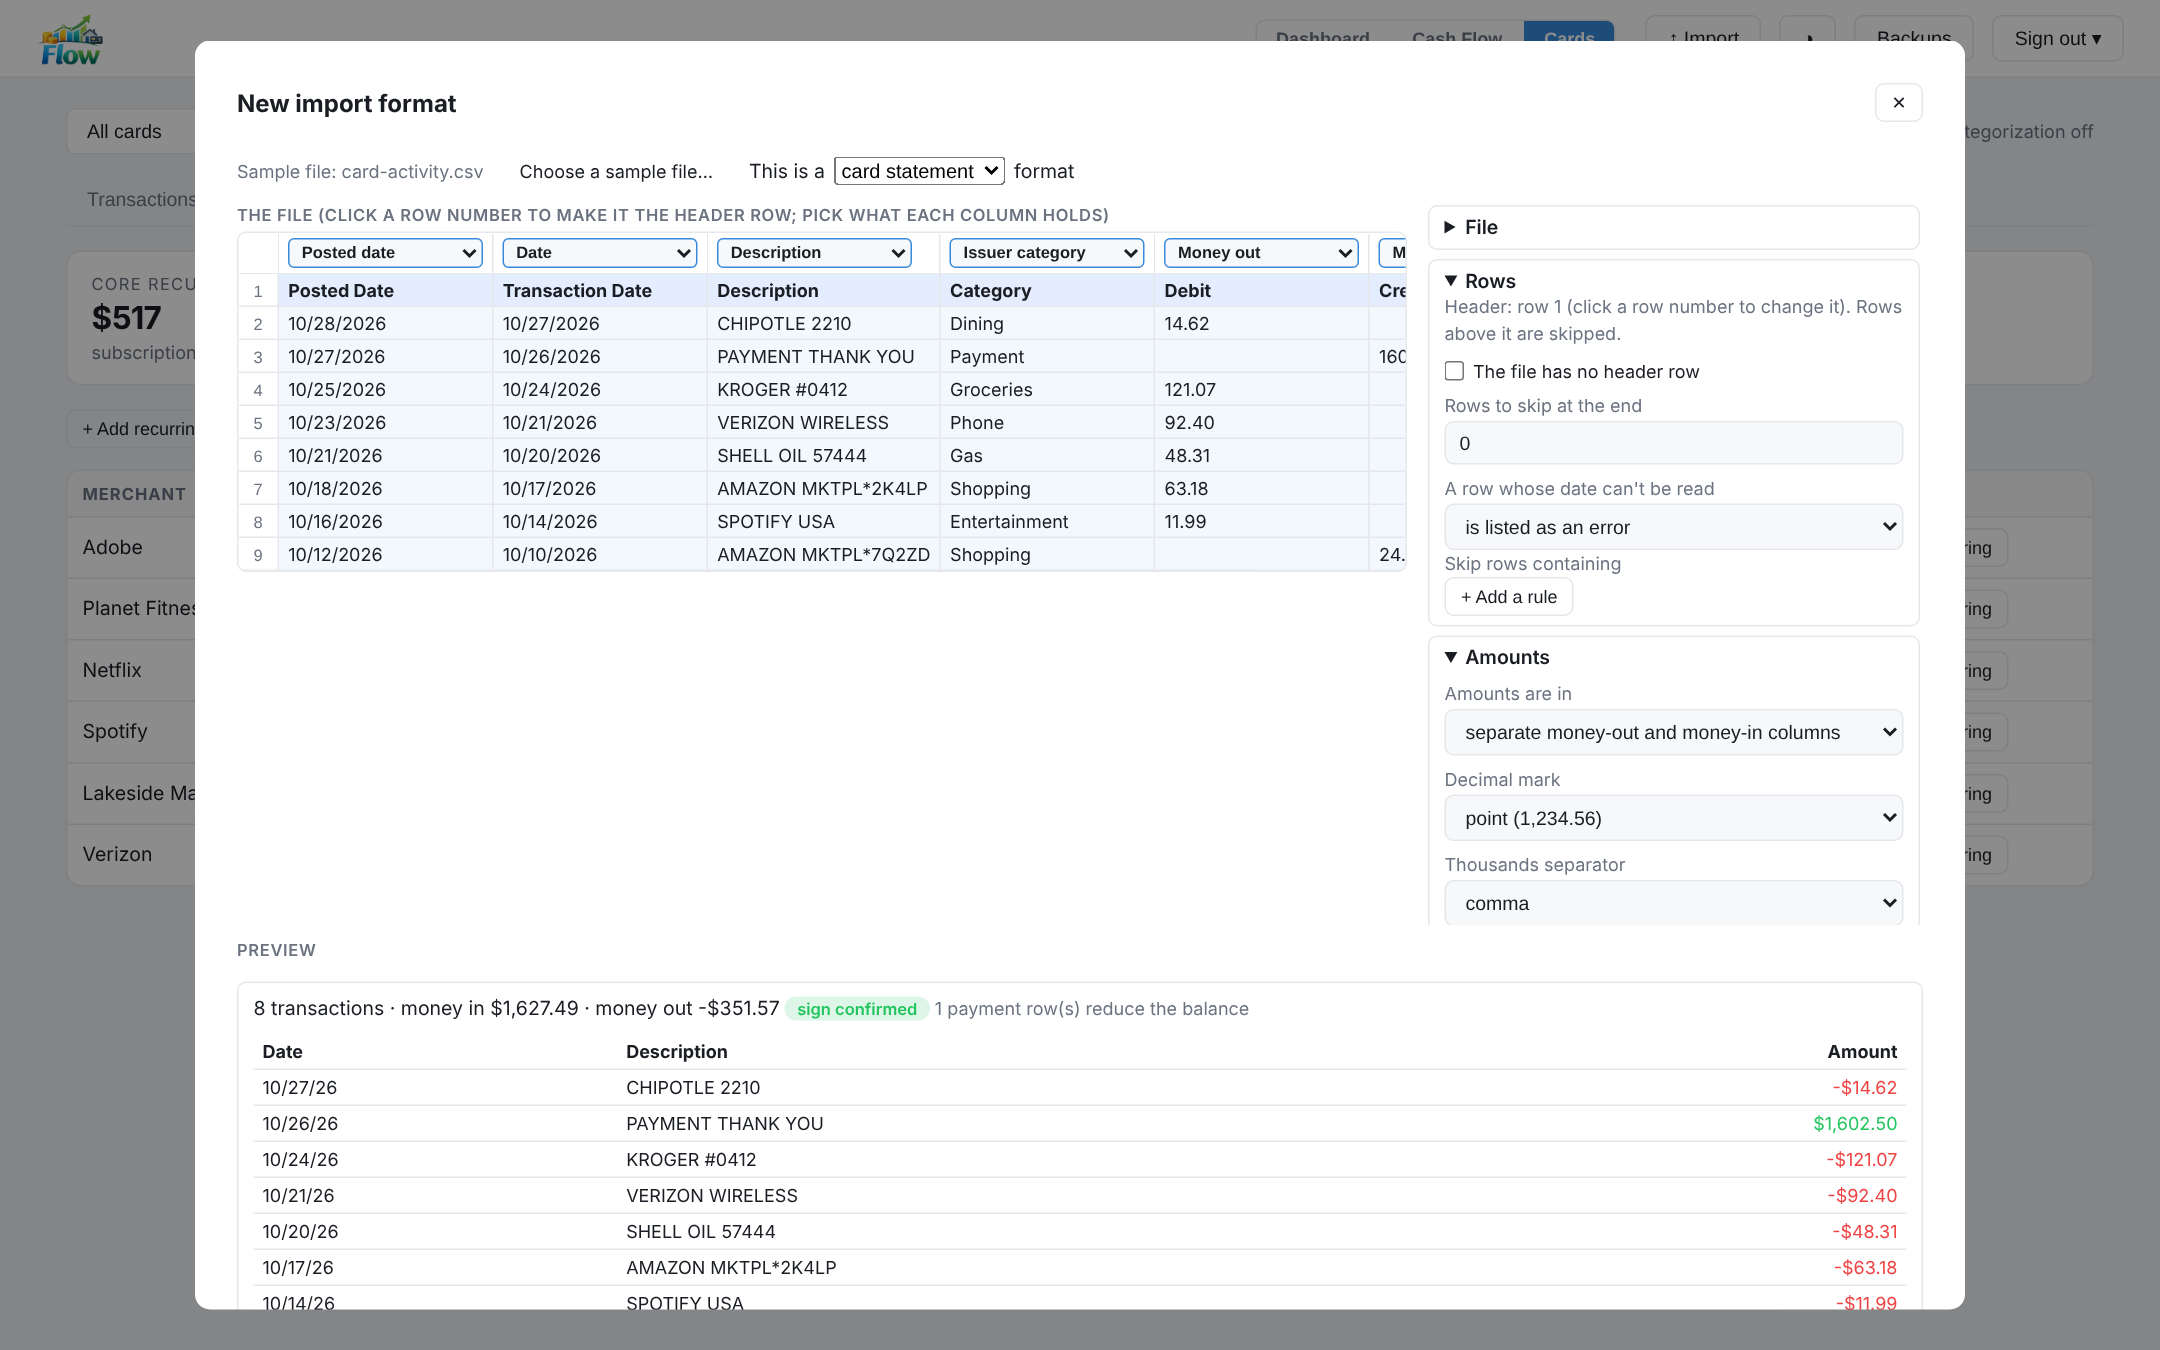
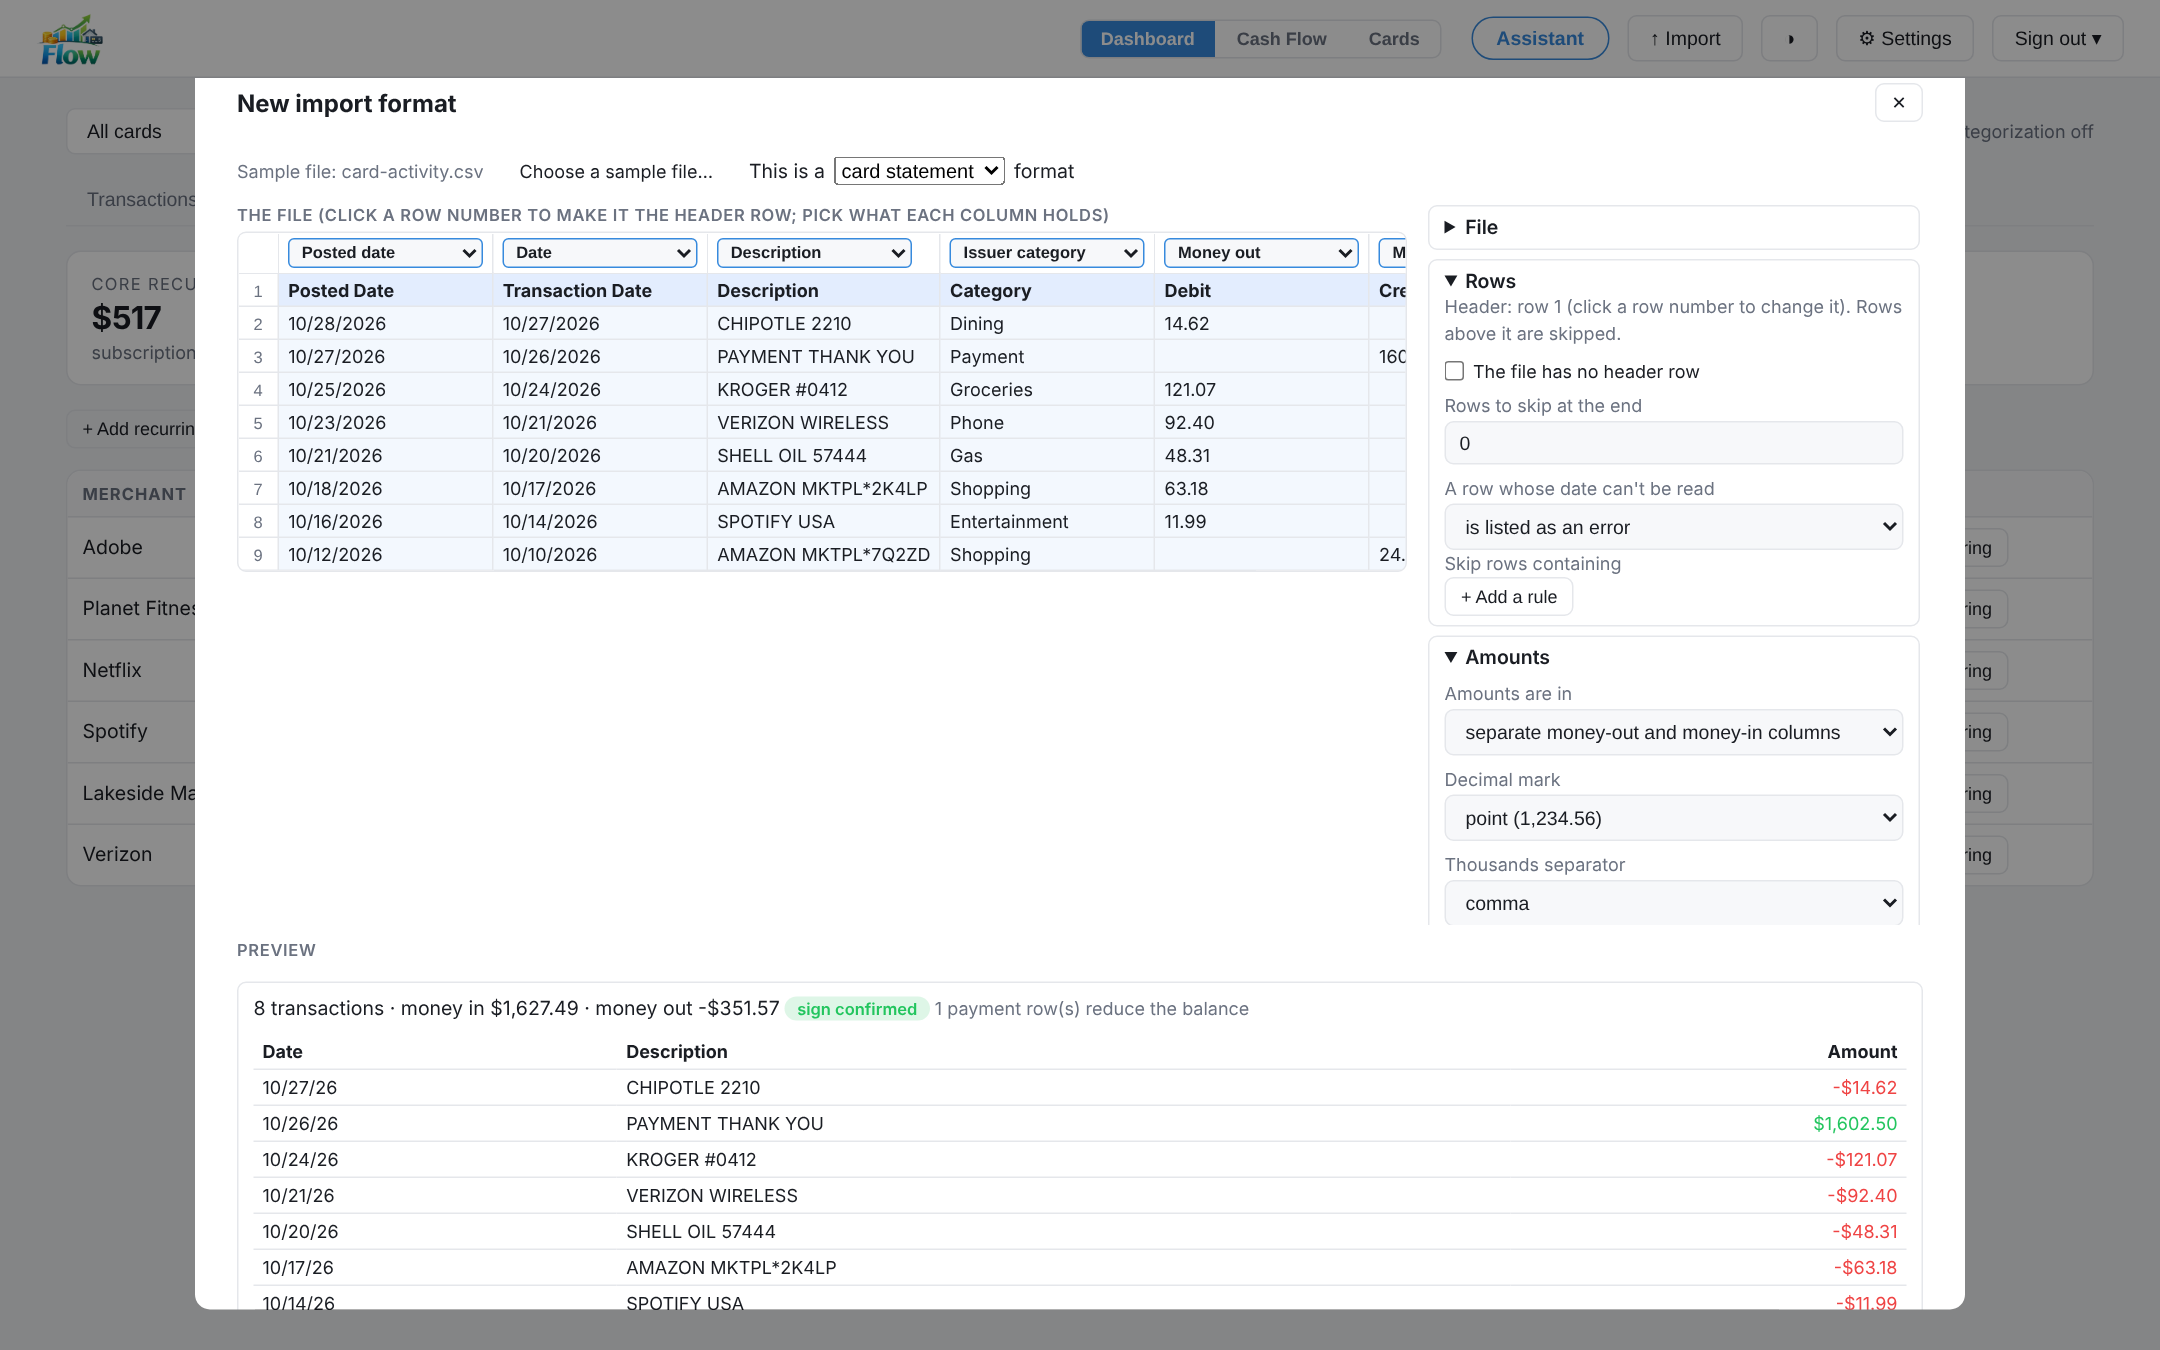
Update the README screenshots for the Settings dialog and the Needs attention panel
The Dashboard screenshot shows the Needs attention panel and the new top bar; a new
Settings → Backups screenshot shows the daily backup's schedule, the backup list and the
encrypted download. The other screenshots get the new top bar. The Settings dialog is a
little wider so the backup list's actions fit without scrolling.

Claude-Session: https://claude.ai/code/session_01LxiBHtrxDYcqhpWDVEYTao

Changed region(s): [[0.0931, 0.0, 0.9306, 0.0622]]

diff --git a/frontend/static/settings.css b/frontend/static/settings.css
@@ -1,6 +1,7 @@
 /* The Settings dialog (static/settings.js): a section list on the left, one section's content on the right.
    Tables and log styles come from cards.css; the AI section's own styles from ai.css. */
-#settings-modal .modal-box { width: 980px; max-width: 95vw; max-height: 90vh; overflow-y: auto; padding: 0; gap: 0; }
+#settings-modal .modal-box { width: 1120px; max-width: 95vw; max-height: 90vh; overflow-y: auto; padding: 0; gap: 0; }
+#backup-list-wrap { overflow-x: auto; }
 .settings-head { display: flex; align-items: center; gap: 8px; padding: 16px 24px; border-bottom: 1px solid var(--border); }
 .settings-layout { display: flex; min-height: 320px; }
 .settings-nav { display: flex; flex-direction: column; gap: 2px; padding: 12px; border-right: 1px solid var(--border); min-width: 180px; }

diff --git a/README.md b/README.md
@@ -4,7 +4,7 @@ A self-hosted personal finance dashboard. Track net worth over time, manage inve
 
 Flow is built for one person or one household running it on their own machine or home server, on a private network: one shared password, no user accounts, and your data in a PostgreSQL database you control. It is not designed to be exposed to the internet (see [Security](#security)). It reads any bank's or card issuer's CSV, TSV or XLSX export through import formats you set up once per layout, so no particular bank is assumed. Amounts are shown in US dollars, and the optional AI features use the Anthropic API with your own key.
 
-![Dashboard: net worth over time, asset allocation and debt-to-asset ratio](docs/screenshots/dashboard.png)
+![Dashboard: what needs attention, net worth over time, asset allocation and debt-to-asset ratio](docs/screenshots/dashboard.png)
 
 <sub>All screenshots show synthetic demo data.</sub>
 
@@ -125,6 +125,8 @@ Change the password under **Settings → Account** and the AI settings under **S
 - **If the login lock trips on its own.** Failed logins are counted per client address. On Docker Desktop (Mac and Windows), and for connections that reach the container through Docker's userland proxy (IPv6, `localhost`), every device on your network can arrive from the same internal address, so five wrong passwords from any one of them lock everyone out for five minutes. Set `FLOW_TRUSTED_PROXIES` to that address range (for example `172.16.0.0/12`) only if a reverse proxy in front of Flow sends `X-Forwarded-For`; otherwise the lock simply clears itself after five minutes, and keeping Flow on a network you trust is the fix.
 - **Other web apps on the same host name.** Flow refuses a change request that the browser says came from another origin, including another port on the same host, so a page from another app on the machine can't act with your cookie. Reads need the password either way.
 - **Backups hold everything.** A backup zip (**Settings → Backups**) contains all your data in plain JSON. Flow takes one every day (03:00 UTC by default) and before the first import of a day, keeping the newest 30 automatic ones; backups you take or upload stay until you delete them. Store downloads somewhere you'd keep bank statements, or download the encrypted copy: it is AES-GCM under a key derived from your passphrase, which Flow never stores, so a lost passphrase means an unreadable file.
+
+![Settings → Backups: the daily backup's schedule and retention, every backup on the server, and an encrypted download](docs/screenshots/settings-backups.png)
 - **Updates.** `git pull && ./deploy.sh` (below). Flow tells you under **Settings → Updates** when a newer release exists (the daily check above). Security fixes land on `main`; see [SECURITY.md](SECURITY.md) to report a problem.
 
 ## Scope and limits
